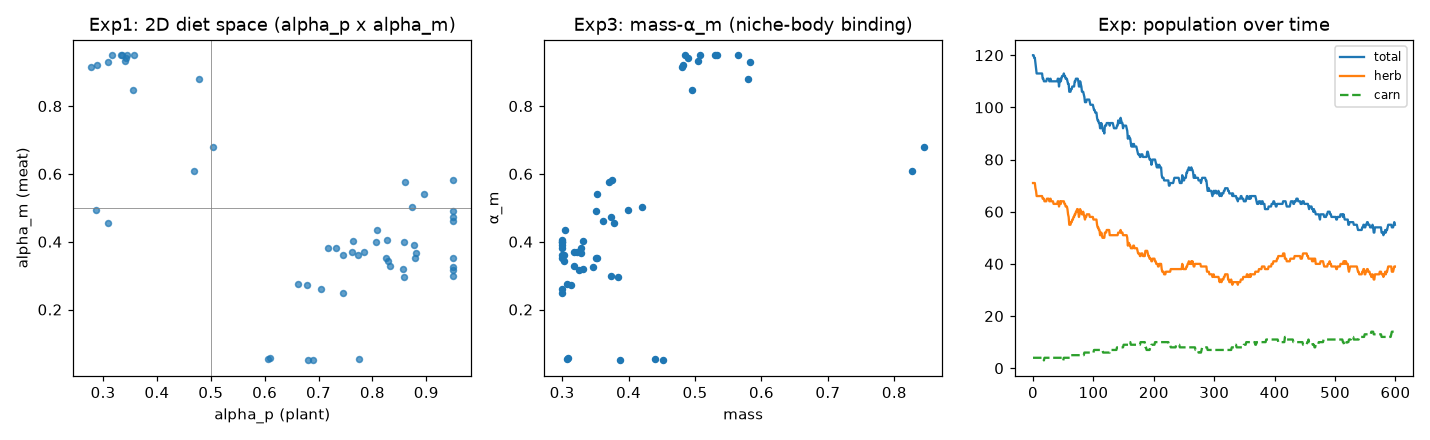
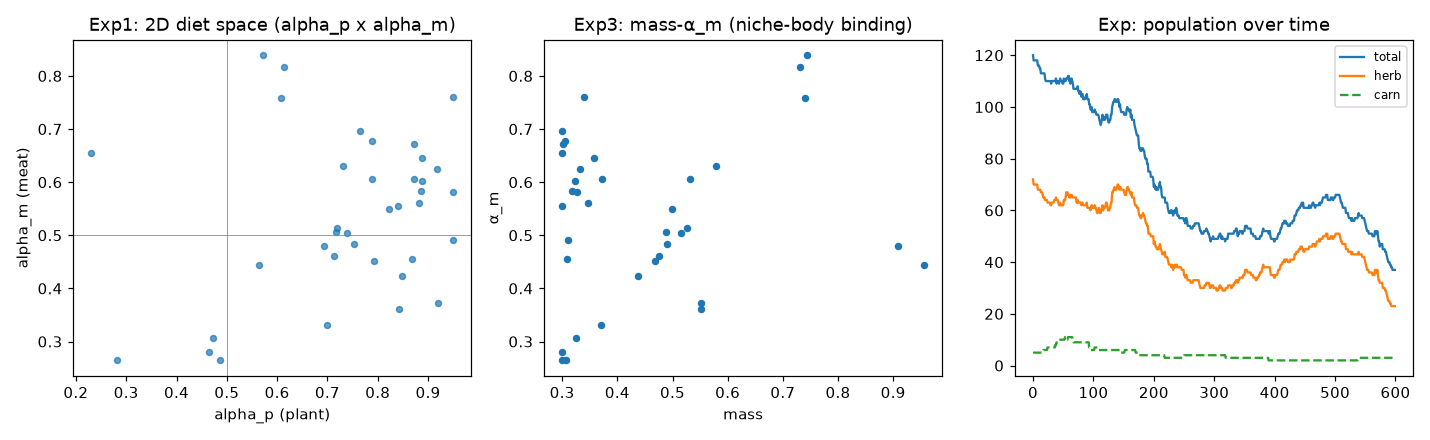
ai-theory: stage25 风险容忍基因（R122）— risk 独立基因：捕食价值×(0.5+risk)——冒险家/稳健派策略分化——群体级风险管理；主判定食肉 94% 食草 100%；多 seed 84%/95%

diff --git a/m5/stage25_body_size_layers.py b/m5/stage25_body_size_layers.py
@@ -100,6 +100,9 @@ class LayerWorld:
         # 远视窄角（伏击捕食者——盯远处）/ 广角近视（防御觅食——看周围）
         self.vision_g = np.clip(1.0 + RNG.normal(0, 0.15, n0), 0.7, 1.3)
         self.fov_g = np.clip(1.0 + RNG.normal(0, 0.15, n0), 0.6, 1.5)
+        # 风险容忍基因：捕食目标价值 ×(0.5+risk)——高 risk 敢赌低成功率目标（收益高）/
+        # 低 risk 只追稳赢（成功率高）——捕食者内部策略分化（冒险家 vs 稳健派）
+        self.risk = np.clip(0.5 + RNG.normal(0, 0.15, n0), 0.1, 0.9)
         self.px = RNG.uniform(0, W, plants0)
         self.py = RNG.uniform(0, H, plants0)
         self.page = np.zeros(plants0)
@@ -255,8 +258,9 @@ class LayerWorld:
                             # 风险调整：价值 ×p_success（成功概率）——Δa 小者（杂食/业余）成功率
                             # 低——追猎价值低于采食——不追；Δa 大者（专业形态）p 高——价值高——追——
                             # 专业化由形态自然分化（无人工门槛——决策环的风险厌恶）
+                            # 风险容忍基因：(0.5+risk)——高 risk 敢赌低成功率目标——策略分化
                             targets.append((i, self.x[j], self.y[j],
-                                            net / d * urge_full[i] * (3.0 if locked else 1.0) * p_success,
+                                            net / d * urge_full[i] * (3.0 if locked else 1.0) * p_success * (0.5 + self.risk[i]),
                                             "prey", j, p_success))
                             # 捕食者记忆：看到猎物位置（猎物会动——仅弱记忆——价值低）
                             self.memory[i][(int(self.x[j]), int(self.y[j]))] = ["prey", 0]
@@ -396,10 +400,11 @@ class LayerWorld:
                 ac = np.clip(self.accel[i] * RNG.uniform(0.9, 1.1), 0.3, 2.5)   # 加速度基因变异
                 vg = np.clip(self.vision_g[i] * RNG.uniform(0.9, 1.1), 0.7, 1.3)   # 视野距离基因
                 fg = np.clip(self.fov_g[i] * RNG.uniform(0.9, 1.1), 0.6, 1.5)   # 视野角基因
+                nr = np.clip(self.risk[i] * RNG.uniform(0.9, 1.1), 0.1, 0.9)   # 风险容忍基因
                 new.append((self.x[i] + RNG.uniform(-3, 3), self.y[i] + RNG.uniform(-3, 3),
-                            v, max_speed(v, ac), 40.0, ap, am, ac, vg, fg, RNG.uniform(0, 2*np.pi)))
+                            v, max_speed(v, ac), 40.0, ap, am, ac, vg, fg, nr, RNG.uniform(0, 2*np.pi)))
                 self.satiety[i] -= 60.0
-        for nx, ny, nv, ns, nsat, nap, nam, nac, nvg, nfg, nh in new:
+        for nx, ny, nv, ns, nsat, nap, nam, nac, nvg, nfg, nrk, nh in new:
             self.x = np.append(self.x, np.clip(nx, 0, W))
             self.y = np.append(self.y, np.clip(ny, 0, H))
             self.mass = np.append(self.mass, nv)
@@ -407,6 +412,7 @@ class LayerWorld:
             self.accel = np.append(self.accel, nac)
             self.vision_g = np.append(self.vision_g, nvg)
             self.fov_g = np.append(self.fov_g, nfg)
+            self.risk = np.append(self.risk, nrk)
             self.heading = np.append(self.heading, nh)
             self.memory.append({})   # 新生物空记忆
             self.target_lock = np.append(self.target_lock, -1)
